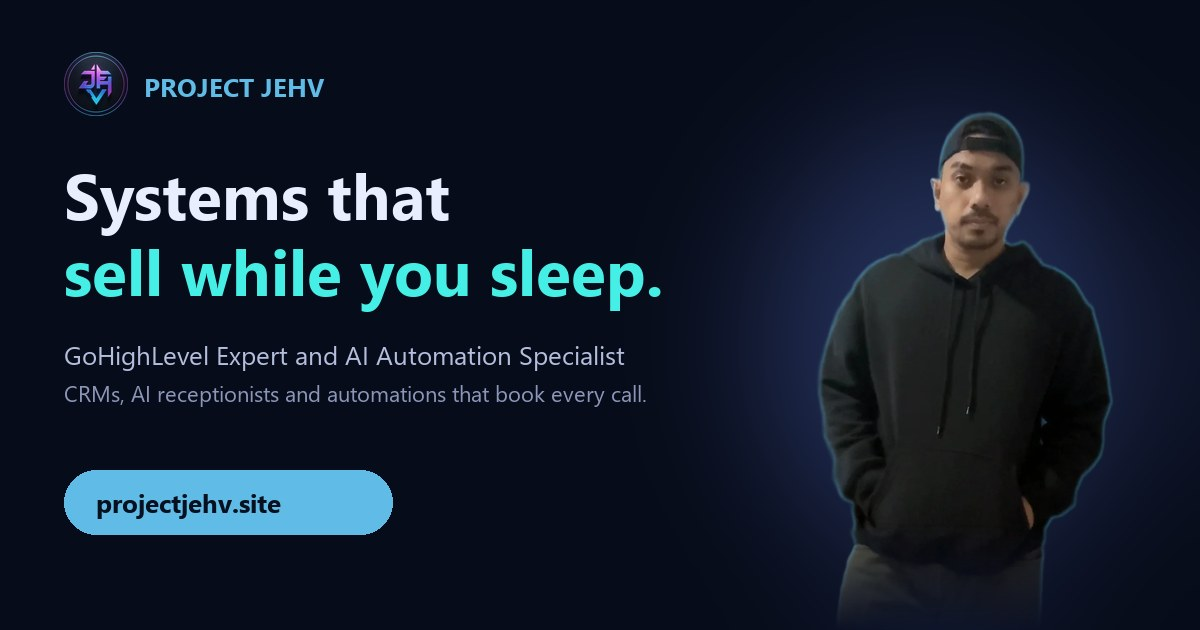
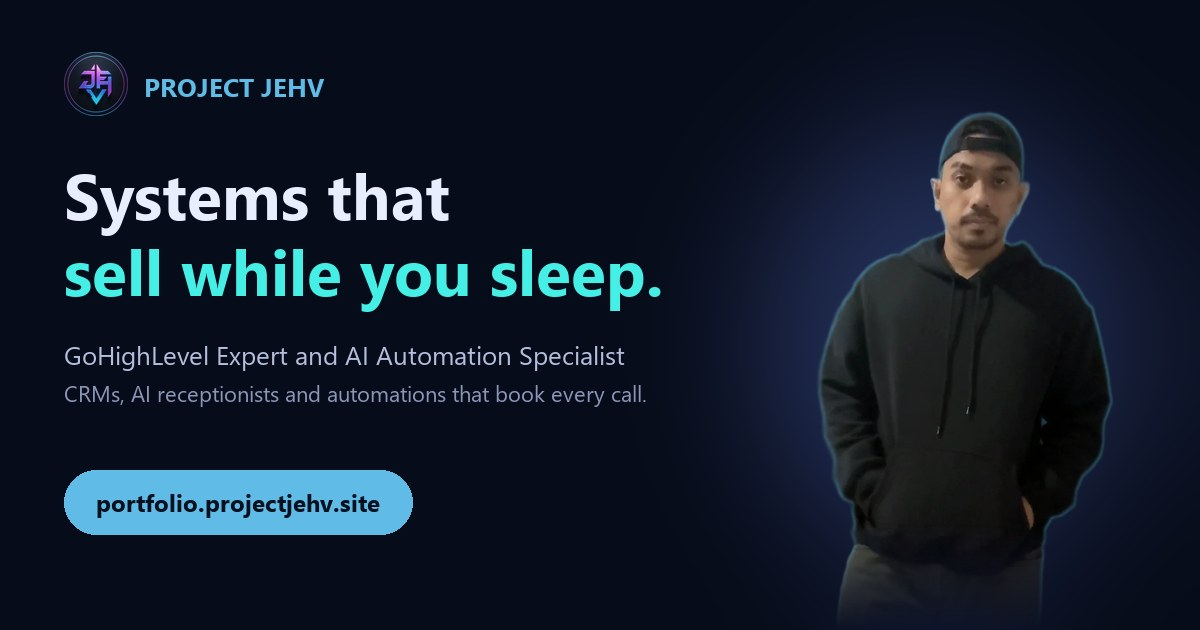
chore: links for portfolio.projectjehv.site

Changed region(s): [[0.0617, 0.7238, 0.37, 0.8444]]

diff --git a/work/index.html b/work/index.html
@@ -9,16 +9,16 @@
   <link rel="icon" type="image/png" sizes="32x32" href="../assets/img/favicon-32.png">
   <link rel="icon" type="image/png" sizes="64x64" href="../assets/img/favicon.png">
   <link rel="apple-touch-icon" href="../assets/img/apple-touch-icon.png">
-  <link rel="canonical" href="https://projectjehv.site/work/">
+  <link rel="canonical" href="https://portfolio.projectjehv.site/work/">
   <meta property="og:type" content="website">
-  <meta property="og:url" content="https://projectjehv.site/work/">
+  <meta property="og:url" content="https://portfolio.projectjehv.site/work/">
   <meta property="og:title" content="All Work | Jose Vitug, GoHighLevel Expert and AI Automation Specialist">
   <meta property="og:description" content="Every GoHighLevel, n8n and Zapier build by Jose Vitug: AI receptionists, real estate pipelines, power dialer, HVAC engine, API integrations, websites and A2P approvals.">
-  <meta property="og:image" content="https://projectjehv.site/assets/img/og.jpg">
+  <meta property="og:image" content="https://portfolio.projectjehv.site/assets/img/og.jpg">
   <meta name="twitter:card" content="summary_large_image">
   <meta name="twitter:title" content="All Work | Jose Vitug, GoHighLevel Expert and AI Automation Specialist">
   <meta name="twitter:description" content="Every GoHighLevel, n8n and Zapier build by Jose Vitug: AI receptionists, real estate pipelines, power dialer, HVAC engine, API integrations, websites and A2P approvals.">
-  <meta name="twitter:image" content="https://projectjehv.site/assets/img/og.jpg">
+  <meta name="twitter:image" content="https://portfolio.projectjehv.site/assets/img/og.jpg">
   <link rel="preconnect" href="https://fonts.googleapis.com">
   <link rel="preconnect" href="https://fonts.gstatic.com" crossorigin>
   <link href="https://fonts.googleapis.com/css2?family=Space+Grotesk:wght@500;700&family=Inter:wght@400;600&family=JetBrains+Mono:wght@400;600&display=swap" rel="stylesheet">

diff --git a/index.html b/index.html
@@ -9,16 +9,16 @@
   <link rel="icon" type="image/png" sizes="32x32" href="assets/img/favicon-32.png">
   <link rel="icon" type="image/png" sizes="64x64" href="assets/img/favicon.png">
   <link rel="apple-touch-icon" href="assets/img/apple-touch-icon.png">
-  <link rel="canonical" href="https://projectjehv.site/">
+  <link rel="canonical" href="https://portfolio.projectjehv.site/">
   <meta property="og:type" content="website">
-  <meta property="og:url" content="https://projectjehv.site/">
+  <meta property="og:url" content="https://portfolio.projectjehv.site/">
   <meta property="og:title" content="Jose Vitug | GoHighLevel Expert and AI Automation Specialist">
   <meta property="og:description" content="Jose Vitug builds GoHighLevel CRMs, AI receptionists and automations that answer every lead and book every call. Project JEHV, Baguio City, Philippines, remote worldwide.">
-  <meta property="og:image" content="https://projectjehv.site/assets/img/og.jpg">
+  <meta property="og:image" content="https://portfolio.projectjehv.site/assets/img/og.jpg">
   <meta name="twitter:card" content="summary_large_image">
   <meta name="twitter:title" content="Jose Vitug | GoHighLevel Expert and AI Automation Specialist">
   <meta name="twitter:description" content="Jose Vitug builds GoHighLevel CRMs, AI receptionists and automations that answer every lead and book every call. Project JEHV, Baguio City, Philippines, remote worldwide.">
-  <meta name="twitter:image" content="https://projectjehv.site/assets/img/og.jpg">
+  <meta name="twitter:image" content="https://portfolio.projectjehv.site/assets/img/og.jpg">
   <link rel="preconnect" href="https://fonts.googleapis.com">
   <link rel="preconnect" href="https://fonts.gstatic.com" crossorigin>
   <link href="https://fonts.googleapis.com/css2?family=Space+Grotesk:wght@500;700&family=Inter:wght@400;600&family=JetBrains+Mono:wght@400;600&display=swap" rel="stylesheet">
